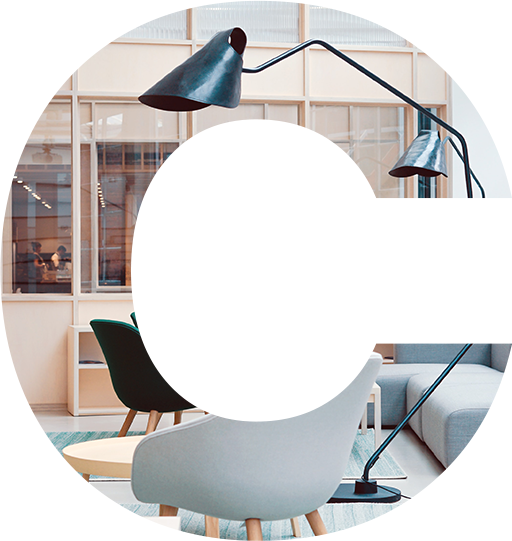
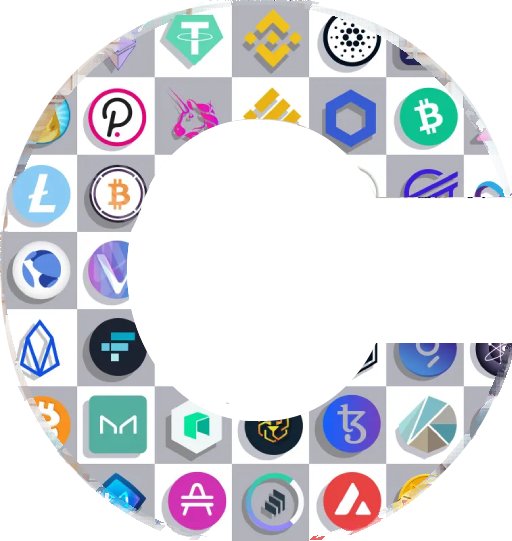
Fix about section image (crypto C) and sync all source images with correct versions

diff --git a/_includes/about_4.html b/_includes/about_4.html
@@ -17,7 +17,7 @@
             <div class="image-column col-lg-6 col-md-12 col-sm-12">
                 <div class="inner clearfix">
                     <div class="image-box">
-                        <figure class="image wow rollIn"><img src="/assets/images/main-slider/defi-tokenomic.webp" alt="DeFi Expert"></figure>
+                        <figure class="image wow rollIn"><img src="/assets/images/resource/featured-image-13.png" alt="Crypto Ecosystem"></figure>
                         <div class="info-text wow fadeInLeft" data-wow-delay="1000ms">
                             <div class="count"><span></span></div>
                         </div>
